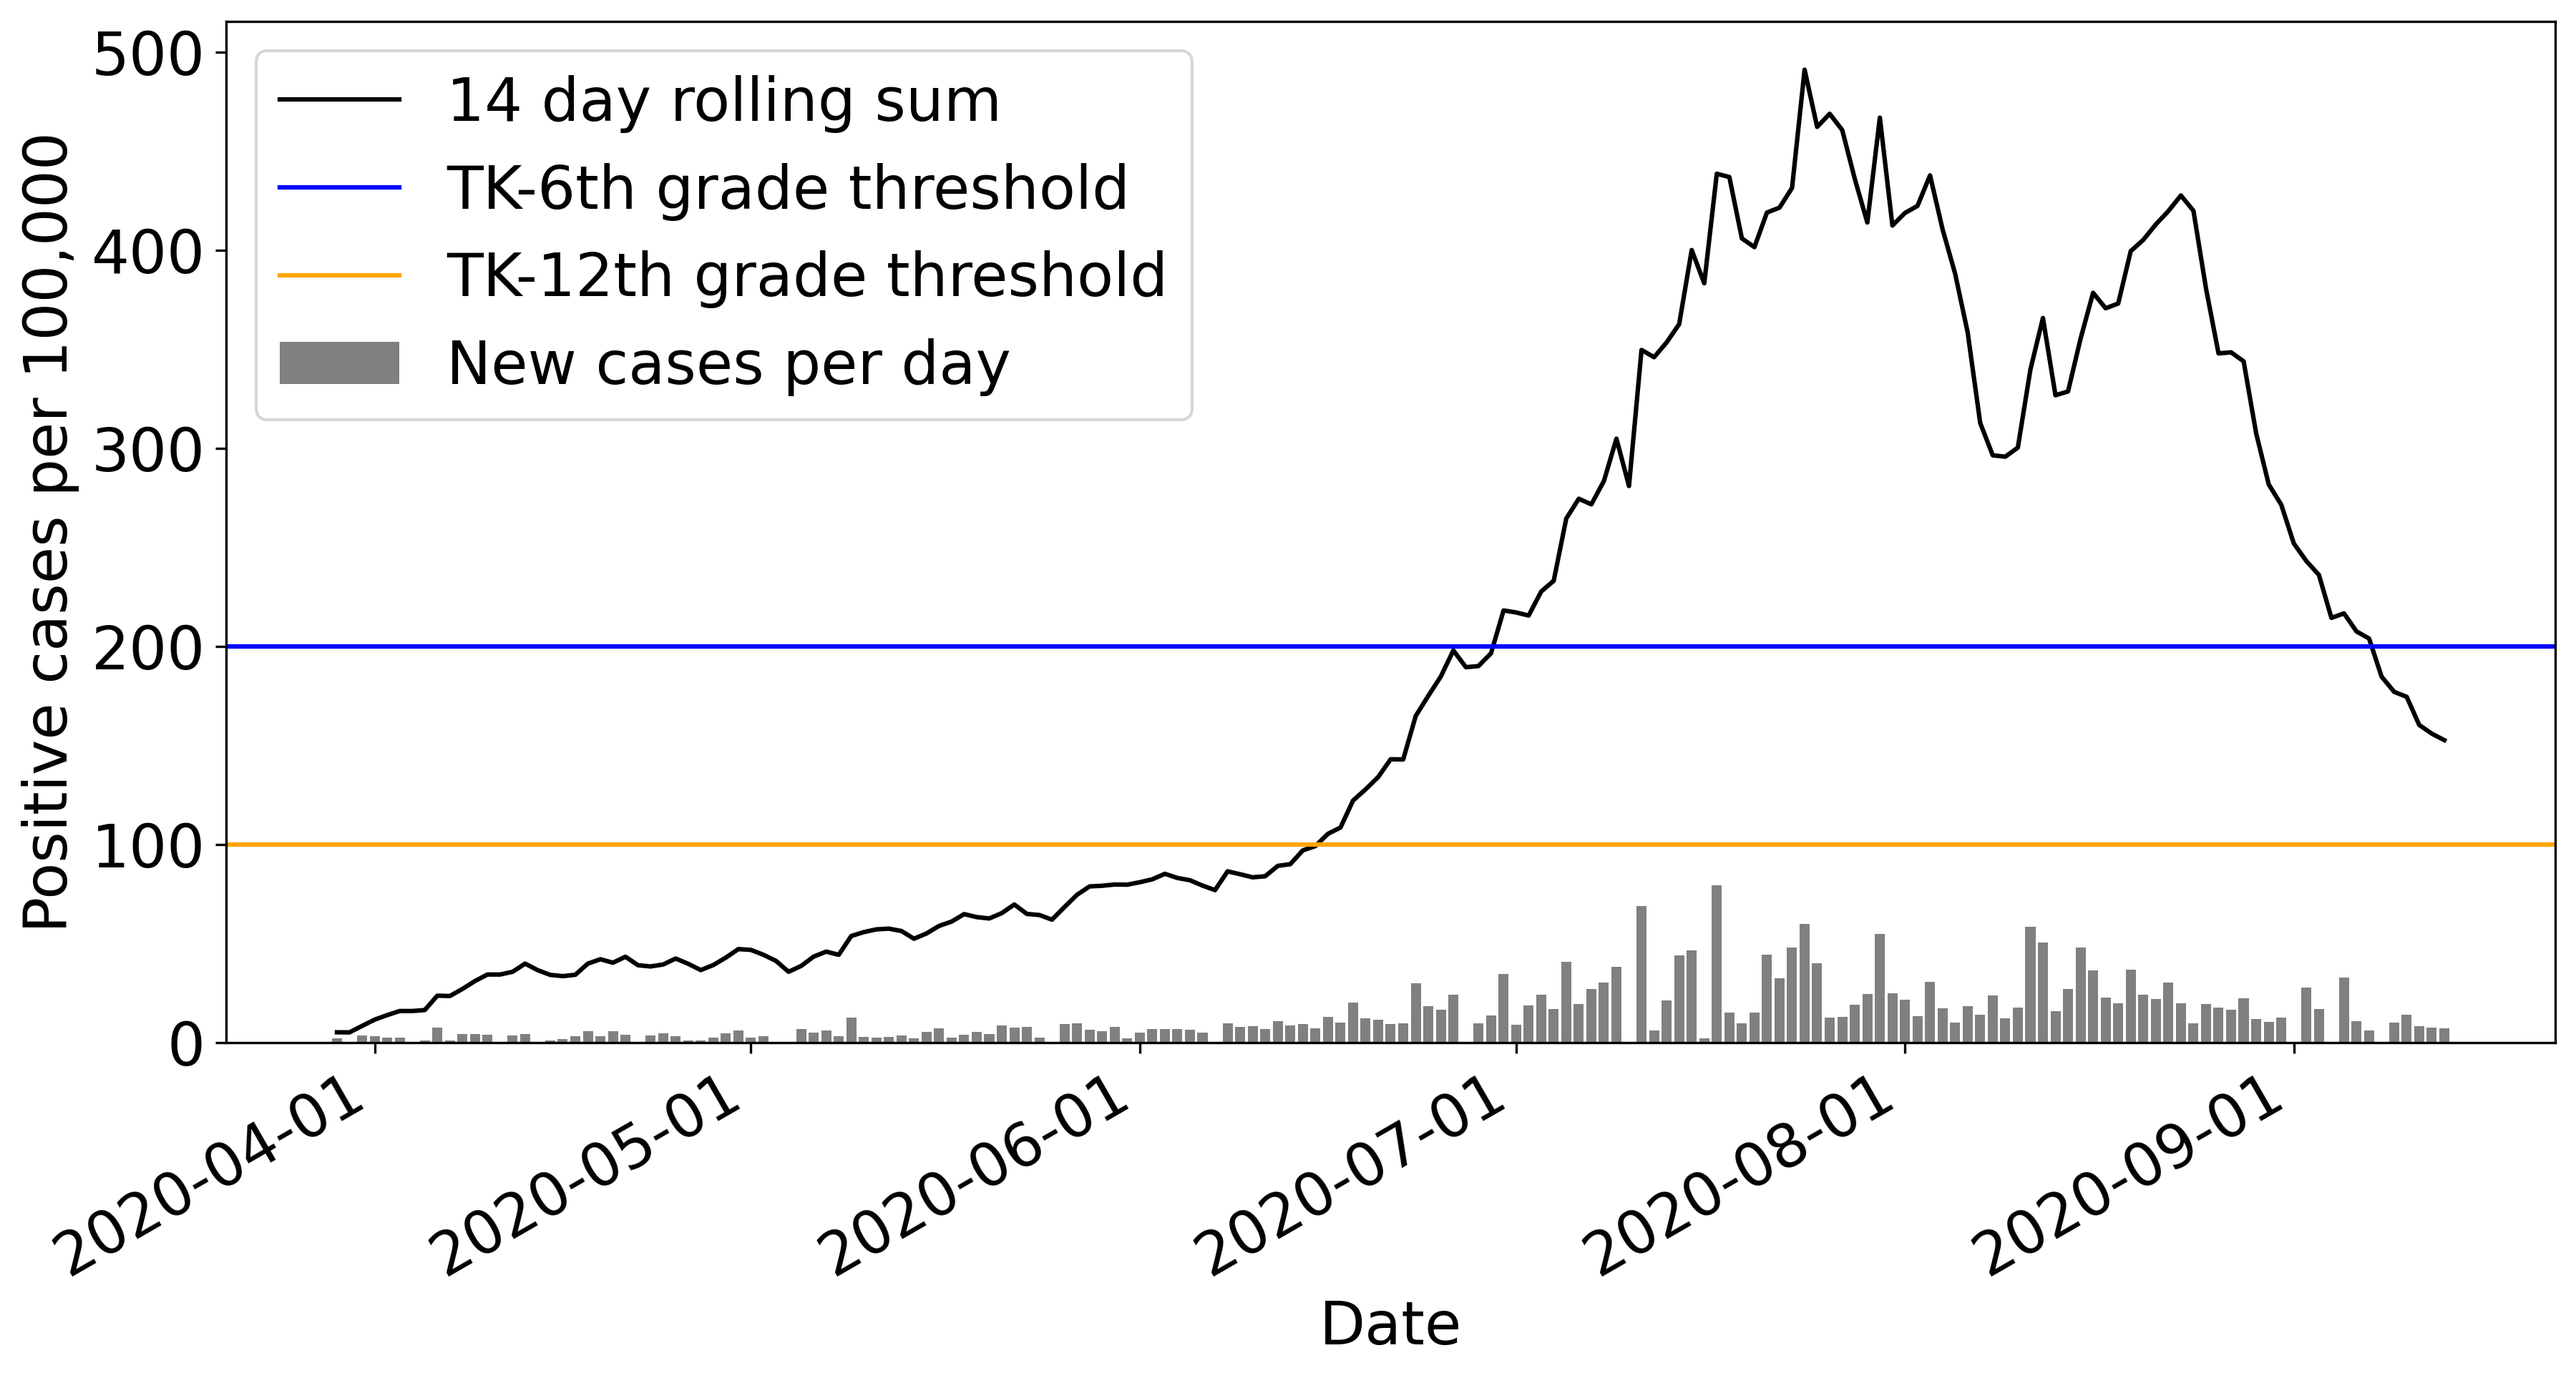
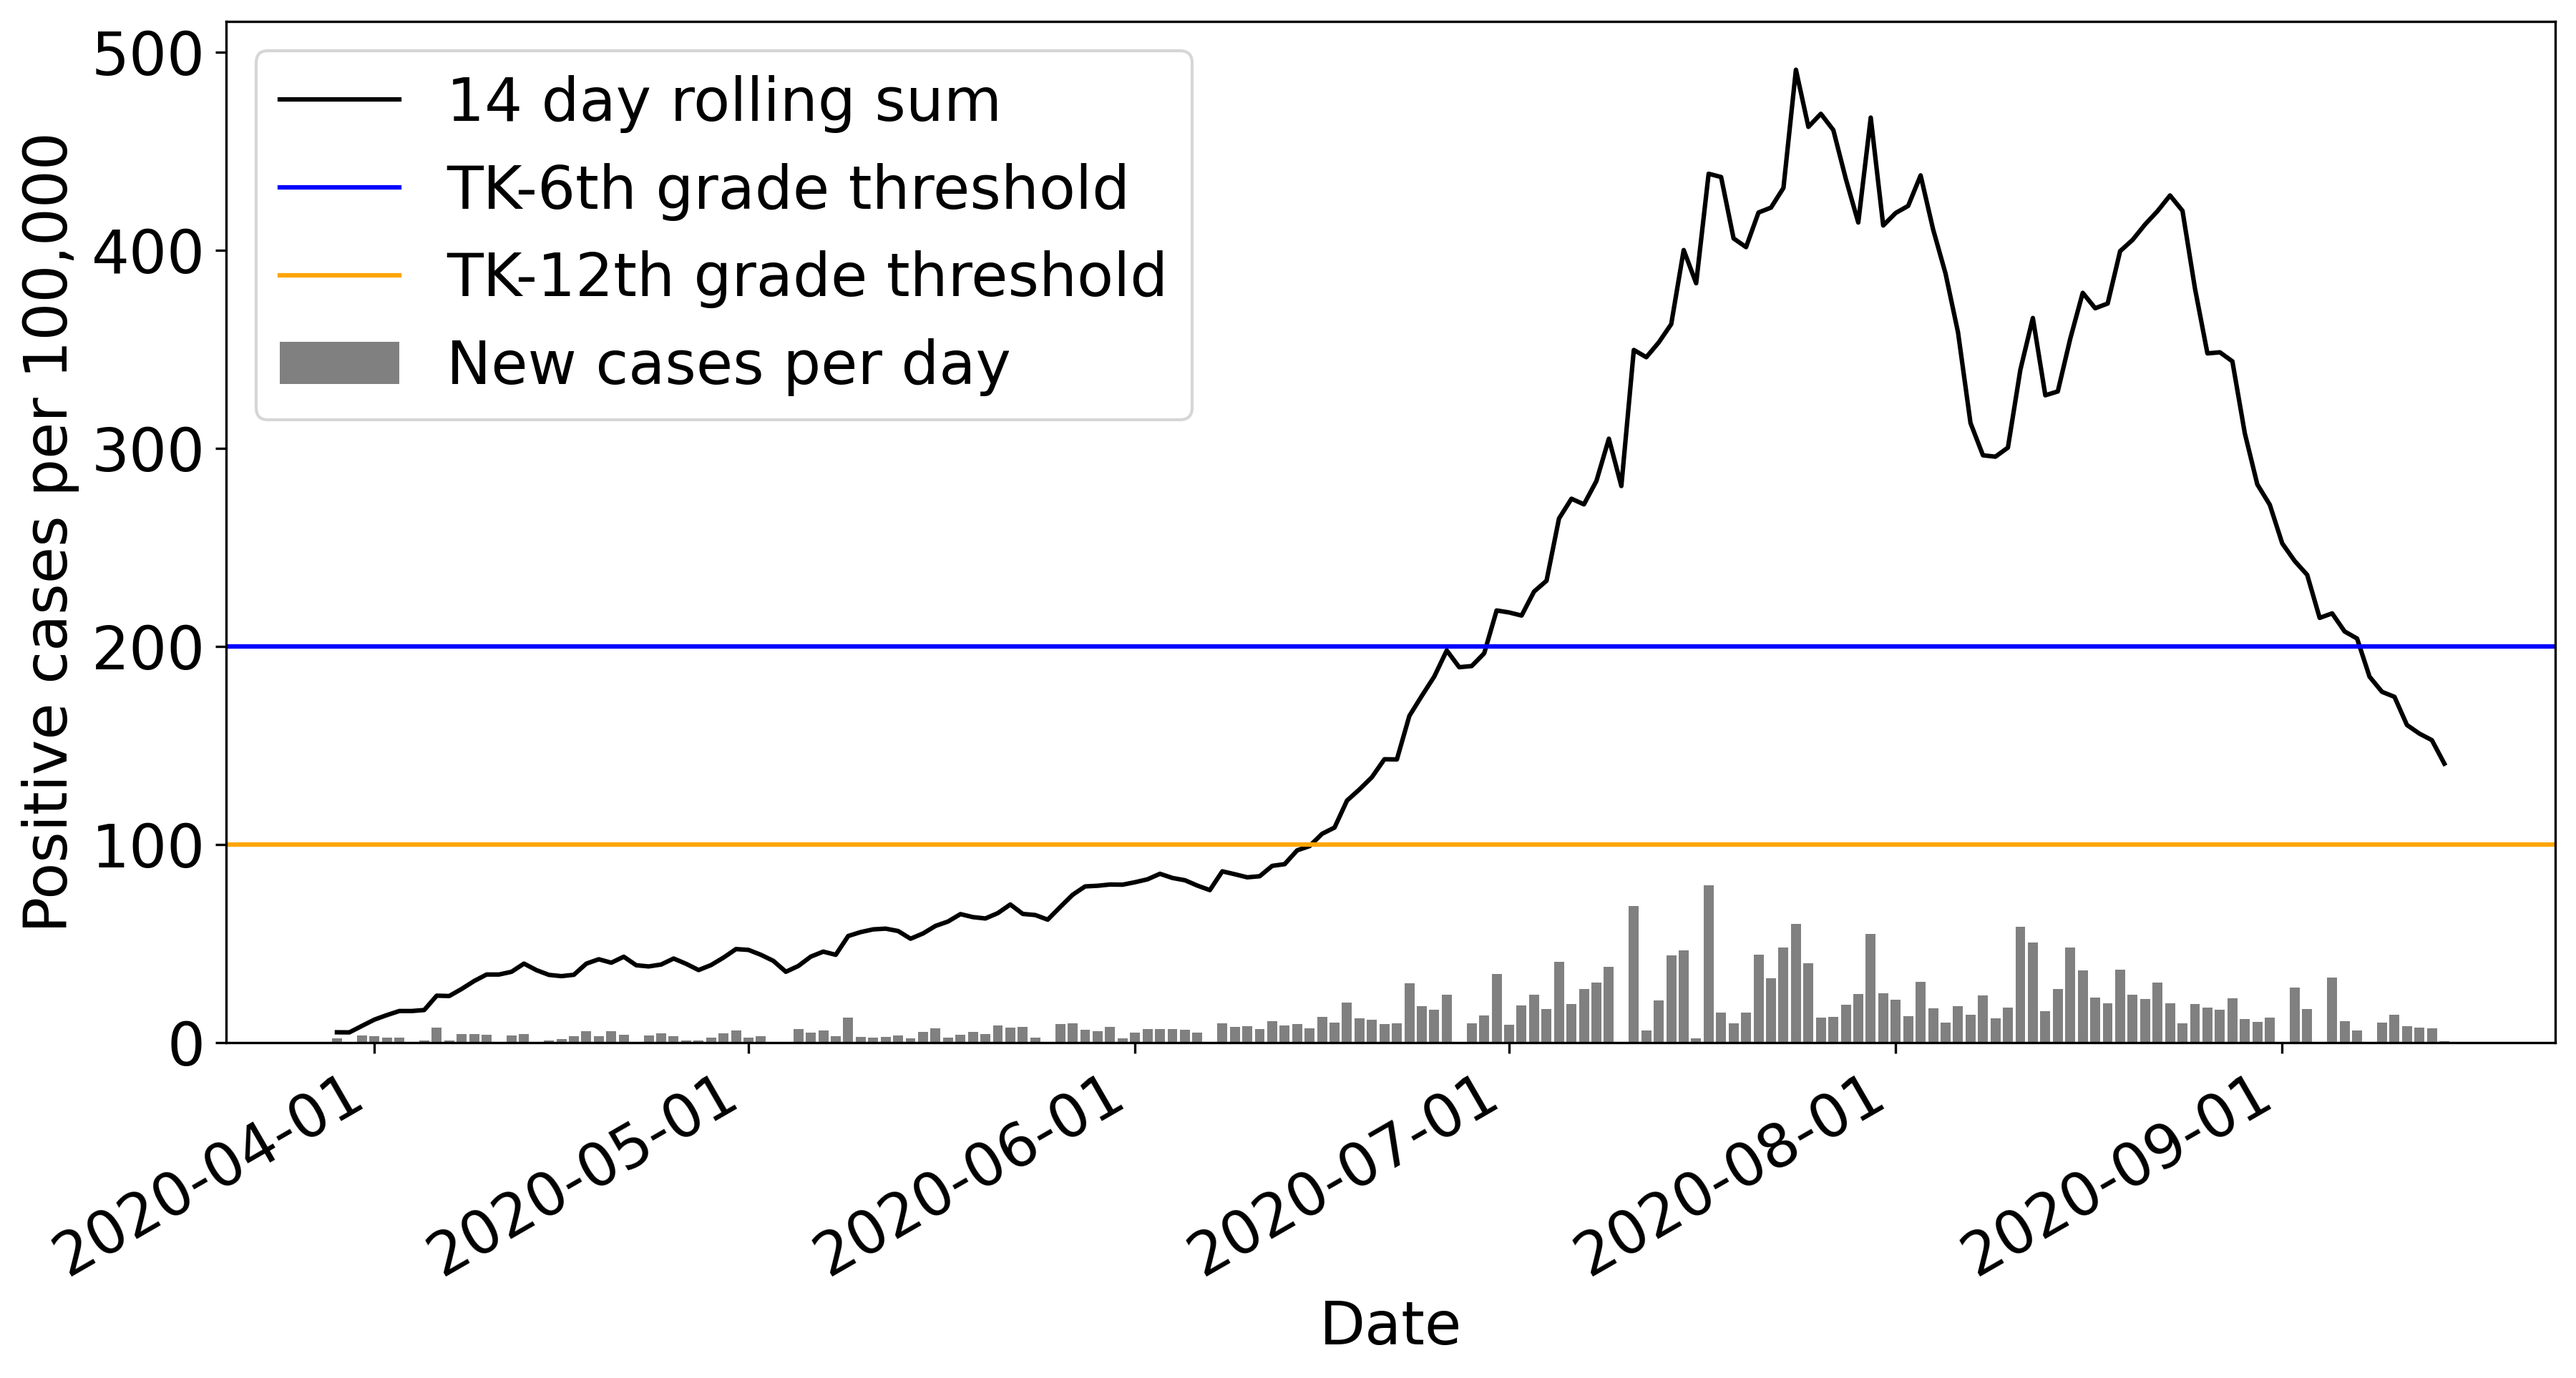
Latest data: Tue Sep 15 18:11:20 UTC 2020

diff --git a/README.md b/README.md
@@ -1,4 +1,4 @@
 # COVID-19 data from San Bernardino County
 ![image1](plots/graph.png)
 ![image2](plots/classification.png)
-**Last Updated:** Tue Sep 15 12:13:47 UTC 2020
+**Last Updated:** Tue Sep 15 18:11:20 UTC 2020
